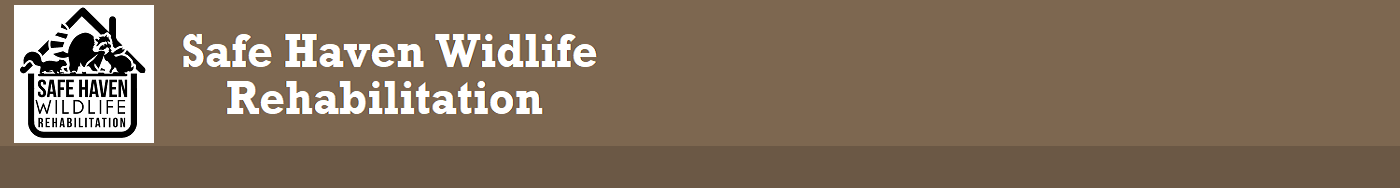
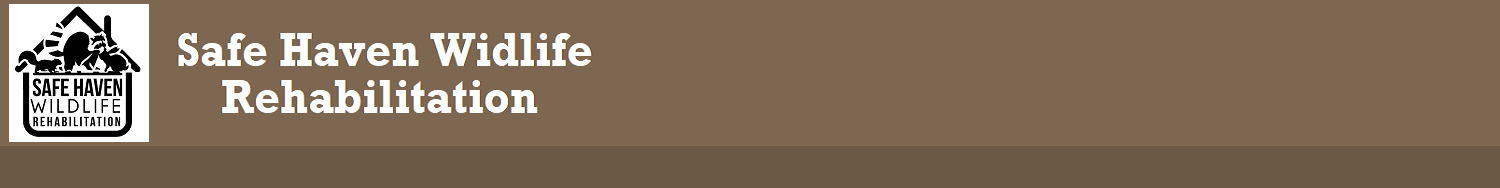
change

Changed region(s): [[0.0, 0.0, 0.43, 0.7713]]

diff --git a/index.html b/index.html
@@ -15,6 +15,7 @@
             <div class="bannerWrapper">
                 <div class="menu-button-div">
                     <a href="index.html"><button class="menu-button">About Us</button></a>
+                    <a href="found-wildlife.html"><button class="menu-button">Found Wildlife</button></a>
                     <a href="gallery.html"><button class="menu-button">Gallery</button></a>
                     <a href="donations.html"><button class="menu-button">Donations</button></a>
                 </div>
@@ -23,11 +24,11 @@
             <div class="aboutUs-body">
                 <div class="left-section">
                     <div class="mission-statement">
-                        <h1> Our Mission Statement </h1>
+                        <h1> Mission Statement </h1>
                         <p> In the time of need, we provide a second chance for wildlife to be 
                             able to thrive and succeed as nature had intended. We rescue, rehabilitate, and release wildlife. 
                             We are state/federal nonprofit 501 (c).</p>
-                    </div>  
+                    </div> 
                     <div class="aboutUs-block">
                         <h1> Who We Are </h1>
                         <p> Here at the Safe Haven Wildlife Rehabilitation, we have a type C wildlife rehabilitaiton permit.
@@ -35,18 +36,45 @@
                             racoons, rabbits, squirrels, weasels, and minks. Although there are species we do not work with, please
                             contact us with any questions regarding any wildlife. Our rehabbers are well equipped to help find any 
                             animal the care it needs!   </p>
-                    </div>  
-                </div>
-                <div class= "right-section">
+                    </div>
                     <div class="location">
-                        <h1> Our Location </h1>
+                        <h1> Helen Svetlecich</h1>
+                        <img src="cssCode/icons/helenImg.jpg" alt="HelensImg">
                         <iframe src="https://www.google.com/maps/embed?pb=!1m18!1m12!1m3!1d11940.305766531954!2d-88.17802616379979!3d41.56759016796679!2m3!1f0!2f0!3f0!3m2!1i1024!2i768!4f13.1!3m3!1m2!1s0x880e8aa01665241f%3A0xd274ec60880bf4ce!2s2418%20Vesta%20Dr%2C%20Joliet%2C%20IL%2060431!5e0!3m2!1sen!2sus!4v1590463580244!5m2!1sen!2sus" 
                                 allowfullscreen="" aria-hidden="false" tabindex="0">
                         </iframe>
+                        <p>
+                            Helen mainly rehabilitates squirrels and rabbits. Helen has been rehabbing wildlife for over thirteen years and prides herself on her great success rate! 
+                        </p>
                     </div>
+                    
+                </div>
+                <div class= "right-section">
+                    <div class="aboutUs-block-desktop">
+                        <h1> Who We Are </h1>
+                        <p> Here at the Safe Haven Wildlife Rehabilitation, we have a type C wildlife rehabilitaiton permit.
+                            This permits us to rehabilitate many different species of wildlife. We specialize in rehabilitating
+                            racoons, rabbits, squirrels, weasels, and minks. Although there are species we do not work with, please
+                            contact us with any questions regarding any wildlife. Our rehabbers are well equipped to help find any 
+                            animal the care it needs!   </p>
+                    </div>
+
+                    <div class="location">
+                        <h1> Tiffany Genschoreck</h1>
+                        <img src="cssCode/icons/tiffimg.jpg" alt="HelensImg">
+                        <iframe src="https://www.google.com/maps/embed?pb=!1m18!1m12!1m3!1d11940.305766531954!2d-88.17802616379979!3d41.56759016796679!2m3!1f0!2f0!3f0!3m2!1i1024!2i768!4f13.1!3m3!1m2!1s0x880e8aa01665241f%3A0xd274ec60880bf4ce!2s2418%20Vesta%20Dr%2C%20Joliet%2C%20IL%2060431!5e0!3m2!1sen!2sus!4v1590463580244!5m2!1sen!2sus" 
+                                allowfullscreen="" aria-hidden="false" tabindex="0">
+                        </iframe>
+                        <p>
+                            Tiffany mainly rehabilitates raccoons and opossum. Tiffany is also a certified Veterinary Technician. She uses her skills from the veterinary field quite often while rehabbing.
+                        </p>
+                    </div>
+                   
+                   
                     <div class="contact-information">
                         <h1> Contact Us </h1>
                         <a class="phone-link" href="17792274152"> <img class="call" src="cssCode/icons/phone.png" alt="phone-img"></a>  
+                        <a class="phone-link" href="17792274152"> <img class="call" src="cssCode/icons/phone2.png" alt="phone-img"></a>  
                         <a class="email-link" href="mailto: safehavenwildliferrr@gmail.com"> <img class="email" src="cssCode/icons/email.png" alt="mail-icon"></a>
                         <a class="facebook-link" href="https://www.facebook.com/safehavenwildliferehab"> <img class="facebook" src="cssCode/icons/FacebookLogo.png" alt="facebook-icon"></a> 
                     </div>

diff --git a/cssCode/aboutUs.css b/cssCode/aboutUs.css
@@ -22,14 +22,14 @@ body{
 .mission-statement{
     display: inline-block;
     margin-top: 5%;
-    width: 80%;
+    width: 90%;
     background-color: rgba(125, 103, 80, 0.90);
     text-align: left;
     border-radius: 2%;
     box-shadow: var(--box-shadow);
 }
 .mission-statement > p {
-    padding:  1%;
+    padding:  2%;
     font-size: 115%;
     text-align: center; 
 }
@@ -43,16 +43,19 @@ body{
 }
 
 /*---- what we do block ----*/
+.aboutUs-block-desktop{
+    display: none;
+}
 .aboutUs-block{
     display: inline-block;
     margin-top: 10%;
-    width: 80%;
+    width: 90%;
     background-color: rgba(125, 103, 80, 0.90);
     text-align: left;
     border-radius: 2%;
     box-shadow: var(--box-shadow); 
 }.aboutUs-block > p {
-    padding:  1%;
+    padding:  2%;
     font-size: 115%;
     text-align: center; 
 }
@@ -71,22 +74,33 @@ body{
     border-radius: 2%;
     background-color:  rgba(125, 103, 80, 0.90);
     margin-top: 10%;
-    width: 80%;
-    height: 60%;
+    width: 90%;
+    height: inherit;
     box-shadow: var(--box-shadow);
 }
 .location > h1{
-    padding-bottom: 2%;
-    font-size: 140%;
+    padding: 2%;
+    font-size: 150%;
     color: white;
     text-shadow: 2px 2px 2px rgb(0,0,0,.75);
     font-family: var(--h-font);
 }
+.location > img {
+    width: 90%;
+    height: 50%;
+    box-shadow: var(--box-shadow);
+}
 .location > iframe{
     border: none;
     width: 90%;
-    height: 80%;
+    height: 60%;
     box-shadow: var(--box-shadow);
+    margin-bottom: 5%;
+    margin-top: 5%;
+}.location > p {
+    padding:  2%;
+    font-size: 130%;
+    text-align: center; 
 }
 
 /*---- Contact information ----*/
@@ -110,12 +124,13 @@ body{
     text-shadow: 2px 2px 2px rgb(0,0,0,.75);
     font-family: var(--h-font);
 }
-.email-link{
-    padding: 10%;
+.email-link,.phone-link,.facebook-link{
+    padding: 3%
 } 
 .call, .email, .facebook{
     border-radius: 101%;
     box-shadow: var(--box-shadow);
+    
 }
 .call:hover, .email:hover, .facebook:hover{
     opacity: 50%;
@@ -134,8 +149,9 @@ body{
         display: grid;
         grid-template-areas: var(--grid-template);
         grid-gap: 100px;
+        min-height: 100vh;
         height: 100%;      
-        width: 1400px;
+        width: 1500px;
         border-radius: 0%;
         border-top: none;
         border: solid;
@@ -143,25 +159,58 @@ body{
         border-width: 1px;
     }
 
-    /*---- about us left ----*/
+    /*---- mission statement ----*/
     .mission-statement{
         grid-area: left;
         margin-top: 0px;
-        width: 400px;
+        width: 500px;
         padding: 20px;
     }.mission-statement > p {
         font-size: var(--desktop-p-size);    
     }
+    .mission-statement > h1{
+        font-size:  var(--desktop-h-size);
+    }
 
+    /*---- who we are ----*/
     .aboutUs-block{
+        display: none;
+    }
+
+    .aboutUs-block-desktop{
+        display: inline-block;
+        margin-top: 10px;
+        width: 500px;
+        padding: 20px;
+        background-color: rgba(125, 103, 80, 0.90);
+        border-radius: 2%;
+        box-shadow: var(--box-shadow); 
+    }.aboutUs-block-desktop > p {
+        padding:  1%;
+        font-size: 20px;
+        text-align: center; 
+    }
+    .aboutUs-block-desktop > h1 {
+        color: white;
+        padding: 1%;
+        font-size:  var(--desktop-h-size);
+        text-shadow: 2px 2px 2px rgb(0,0,0,.50);
+        text-align: center;
+        font-family: var(--h-font);
+    }
+
+
+    /*---- rehabber images ----*/
+    .rehabber-img{
         grid-area: left;
         margin-top: 60px;
         width: 400px;
         padding: 20px;
-    }.aboutUs-block > p {
+    }.rehabber-img > p {
         font-size: var(--desktop-p-size);    
     }
 
+   
     .contact-information{
         display: none;
     }.desktop-contact-information{
@@ -205,13 +254,16 @@ body{
     .location{
         margin-top: 0px;
         width: 500px;
-        height: 550px;
+        height: 1200px;
         margin-right: 30%;
         padding:20px;
+        margin-bottom: 40px;
+    }.location > img {
+        margin-bottom: 30px;
     }.location > iframe{
         border: none;
         width: 450px;
         height: 500px;
-        box-shadow: var(--box-shadow);
+        
     }
 }

diff --git a/cssCode/home.css b/cssCode/home.css
@@ -99,7 +99,7 @@
         position: relative;
         background-image: url(banner/desktopBanner.png);
         background-size: auto;
-        width: 1400px;
+        width: 1500px;
         height: 150px;
         background-position-x: center; 
         box-shadow: var(--box-shadow);
@@ -124,13 +124,15 @@
     /*---- menu buttons ----*/
     .menu-button-div{
         display: inline-block;
-        margin-left: 750px;
+        margin-left: 650px;
         margin-top: 40px;
-        width: 650px;
+        width: 800px;
         height: 50px;
+        
+       
     }.menu-button{
         position: relative;
-        font-size: 40px;
+        font-size: 33px;
         margin-right: 20px;
         font-family: 'Spectral', serif;
         background: none;
@@ -140,7 +142,7 @@
     }.menu-button:hover{
         opacity: 50%;
         cursor: pointer;
-        font-size:42px;
+        font-size:34px;
         text-decoration: underline;
     }
 
@@ -169,7 +171,7 @@
         background-color: rgb(125, 103, 80);
         color: black;
         font-size: 15px;
-        width: 1400px;
+        width: 1500px;
         height: 20px;
         text-align: center;
         box-shadow: var(--box-shadow);

diff --git a/found-wildlife.html b/found-wildlife.html
@@ -16,6 +16,7 @@
             <div class="bannerWrapper">
                 <div class="menu-button-div">
                     <a href="index.html"><button class="menu-button">About Us</button></a>
+                    <a href="found-wildlife.html"><button class="menu-button">Found Wildlife</button></a>
                     <a href="gallery.html"><button class="menu-button">Gallery</button></a>
                     <a href="donations.html"><button class="menu-button">Donations</button></a>
                 </div>

diff --git a/gallery.html b/gallery.html
@@ -14,6 +14,7 @@
         <div class="bannerWrapper">
             <div class="menu-button-div">
                 <a href="index.html"><button class="menu-button">About Us</button></a>
+                <a href="found-wildlife.html"><button class="menu-button">Found Wildlife</button></a>
                 <a href="gallery.html"><button class="menu-button">Gallery</button></a>
                 <a href="donations.html"><button class="menu-button">Donations</button></a>
             </div>
